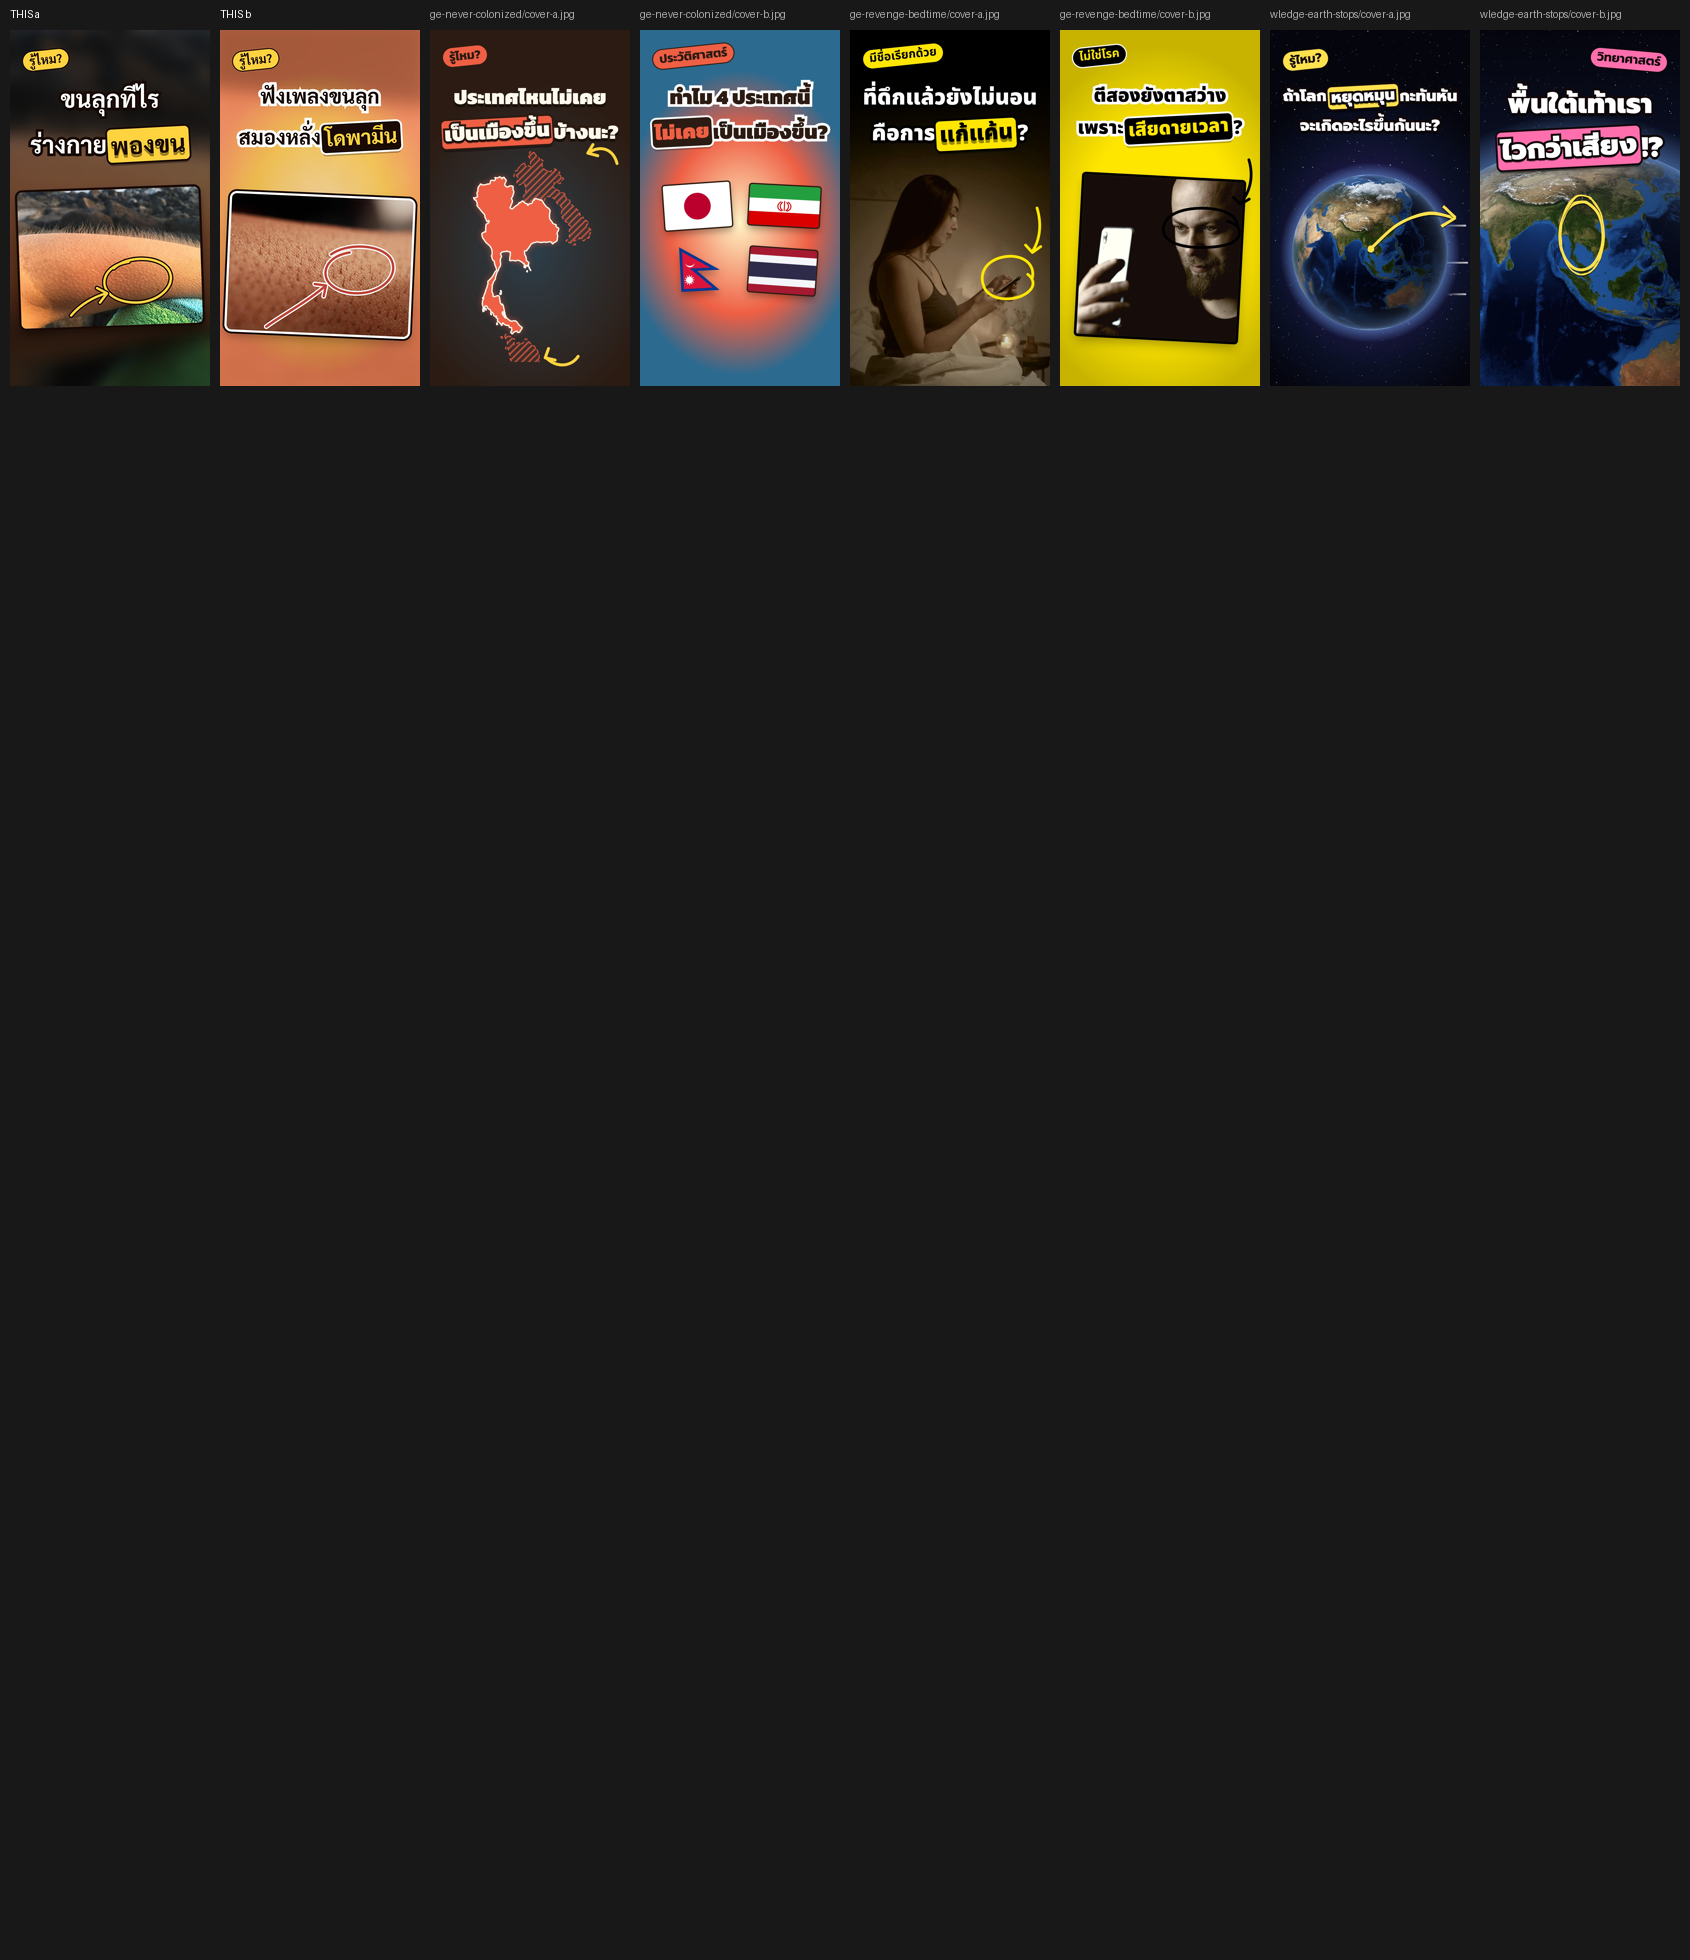
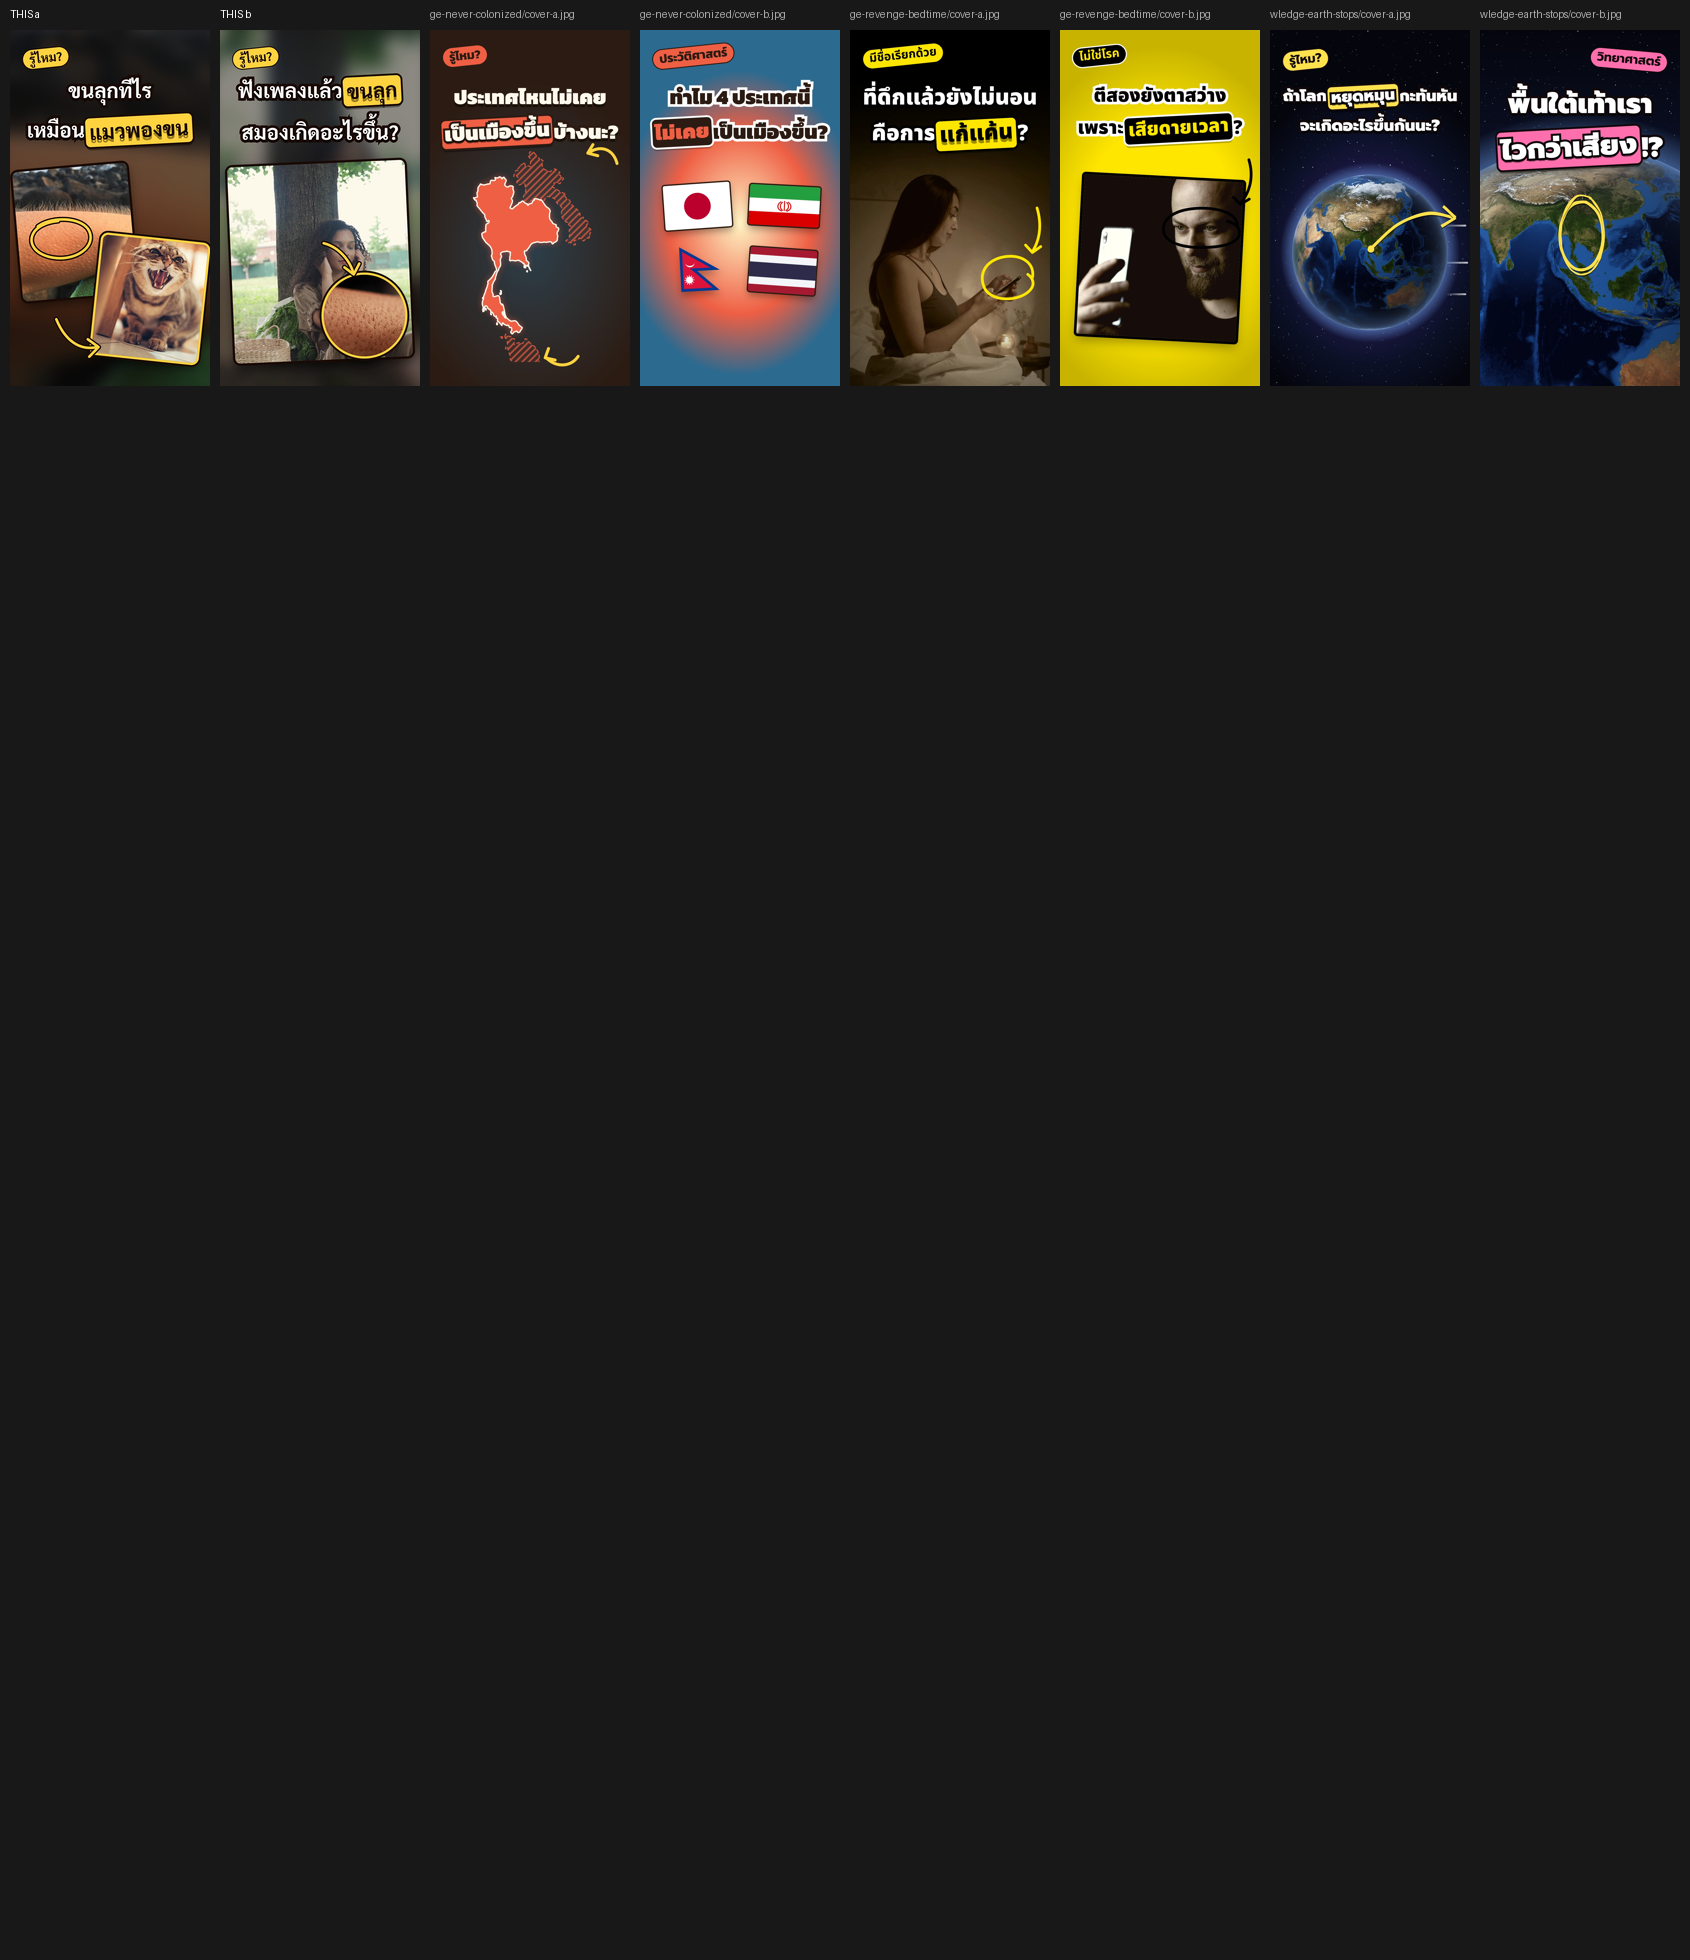
goosebumps: ปก A/B v2 (ผู้ใช้: ปกยังไม่ดีพอ) — คน=แมวพองขน / ฟังเพลงแล้วขนลุก สมองเกิดอะไรขึ้น?
Claude-Session: https://claude.ai/code/session_016zMkaQSnDrs8yg7tQyauFh

Changed region(s): [[0.0, 0.0, 0.2462, 0.2179]]

diff --git a/projects/2026-11-28-knowledge-goosebumps/video/cover.html b/projects/2026-11-28-knowledge-goosebumps/video/cover.html
@@ -32,43 +32,46 @@ html,body{width:1080px;height:1920px;overflow:hidden;background:#000}
 #root.vb .tl{color:var(--ink);-webkit-text-stroke-color:#fff;text-shadow:none}
 #root.vb .tl b{color:var(--bg2)}
 
-/* goosebumps (feedback never-colonized: ภาพจริงจัง + คำเด่นในกล่องเอียง + ป้ายมุม + ลูกศร/วงวาดมือ; ห้ามคลิปอาร์ต) */
-#bgimg{position:absolute;inset:-60px;background-size:cover;background-position:center;filter:blur(38px) brightness(.45) saturate(1.1);z-index:0}
-#root.vb #bgimg{filter:blur(40px) brightness(1.05) saturate(.9);opacity:.35}
-#art{left:40px;top:860px;width:1000px;height:780px}
-.card{position:absolute;left:10px;top:0;width:980px;height:735px;border-radius:26px;overflow:hidden;transform:rotate(-2deg);
-  box-shadow:0 0 0 12px var(--ink),0 30px 60px rgba(0,0,0,.55)}
+/* goosebumps v2 (ผู้ใช้ 2026-11-28 "ปกยังไม่ดีพอ"): ตัวใหญ่ขึ้น, ภาพเปรียบเทียบ แขนขนลุก = แมวพองขน (A) / คนฟังเพลง + ผิวขนลุก (B)
+   สไตล์ปกช่อง: ภาพจริงจัง + คำเด่นในกล่องเอียง + ป้ายมุม + ลูกศร/วงวาดมือ; ห้ามคลิปอาร์ต */
+#bgimg{position:absolute;inset:-60px;background-size:cover;background-position:center;filter:blur(40px) brightness(.4) saturate(1.1);z-index:0}
+#root.vb #bgimg{filter:blur(40px) brightness(.55) saturate(1)}
+#root.vb{background:var(--bg)}
+#root.vb .tl{color:var(--text);-webkit-text-stroke-color:var(--ink);text-shadow:0 16px 0 rgba(0,0,0,.4)}
+#art{left:0;top:700px;width:1080px;height:1220px}
+.card{position:absolute;border-radius:28px;overflow:hidden;box-shadow:0 0 0 12px var(--ink),0 30px 60px rgba(0,0,0,.6)}
 .card img{width:100%;height:100%;object-fit:cover;display:block}
-#root.vb .card{transform:rotate(2.5deg);top:40px;box-shadow:0 0 0 12px #fff,0 0 0 22px var(--ink),0 30px 60px rgba(0,0,0,.35)}
-#art svg.draw{position:absolute;left:-40px;top:-80px;width:1080px;height:900px;overflow:visible;z-index:3}
+.c-arm{left:40px;top:40px;width:620px;height:700px;transform:rotate(-5deg)}
+.c-cat{left:470px;top:430px;width:570px;height:640px;transform:rotate(6deg);box-shadow:0 0 0 12px var(--accent),0 0 0 22px var(--ink),0 30px 60px rgba(0,0,0,.6)}
+.c-mus{left:60px;top:20px;width:960px;height:1060px;transform:rotate(-2.5deg)}
+.c-skin{left:560px;top:620px;width:440px;height:440px;border-radius:50%;transform:rotate(4deg);box-shadow:0 0 0 12px var(--accent),0 0 0 22px var(--ink),0 30px 60px rgba(0,0,0,.6)}
+#art svg.draw{position:absolute;left:0;top:0;width:1080px;height:1220px;overflow:visible;z-index:3}
 .draw path{fill:none;stroke-linecap:round;stroke-linejoin:round}
-.draw .sh{stroke:var(--ink);stroke-width:26}
-.draw .fg{stroke:var(--accent);stroke-width:13}
-#root.vb .draw .fg{stroke:var(--bg2)}
-#root.vb .draw .sh{stroke:#fff}
-#title .tl b{display:inline-block;background:var(--accent);color:var(--ink);padding:0 18px 10px;margin:0 4px;border-radius:22px;
+.draw .sh{stroke:var(--ink);stroke-width:28}
+.draw .fg{stroke:var(--accent);stroke-width:14}
+#title .tl b{display:inline-block;background:var(--accent);color:var(--ink);padding:0 20px 12px;margin:0 4px;border-radius:24px;
   transform:rotate(-3deg);box-shadow:0 0 0 10px var(--ink),0 18px 0 rgba(0,0,0,.35);-webkit-text-stroke:0}
-#root.vb #title .tl b{background:var(--ink);color:var(--accent);box-shadow:0 0 0 10px #fff,0 18px 0 rgba(0,0,0,.25)}
-#badge{transform:rotate(-6deg);font-size:66px;padding:14px 34px 22px;left:70px;top:110px}
-#title{top:280px;gap:78px}
+#badge{transform:rotate(-6deg);font-size:66px;padding:14px 34px 22px;left:70px;top:100px}
+#title{top:250px;gap:70px}
+#root.vb #title .tl b{color:var(--ink);background:var(--accent)}
 .va,.vbo{display:none} #root:not(.vb) .va{display:block} #root.vb .vbo{display:block}
 </style></head><body>
 <div id="root">
   <div id="bgimg"></div>
   <div id="art" data-cover="art">
-    <div class="card va"><img src="assets/pixabay-885563.jpg" style="object-position:50% 30%"/></div>
-    <div class="card vbo"><img src="assets/pixabay-222664.jpg" style="object-position:55% 50%"/></div>
-    <svg class="draw va" viewBox="0 0 1080 900">
-      <g><path class="sh" d="M560,505 C640,430 820,440 860,520 C900,600 800,690 680,690 C560,690 480,620 520,540 C540,505 580,480 640,470"/>
-         <path class="fg" d="M560,505 C640,430 820,440 860,520 C900,600 800,690 680,690 C560,690 480,620 520,540 C540,505 580,480 640,470"/></g>
-      <g><path class="sh" d="M330,760 C380,700 450,660 520,640"/><path class="sh" d="M470,612 L524,640 L486,690"/>
-         <path class="fg" d="M330,760 C380,700 450,660 520,640"/><path class="fg" d="M470,612 L524,640 L486,690"/></g>
+    <div class="card c-arm va"><img src="assets/pixabay-885563.jpg" style="object-position:58% 50%"/></div>
+    <div class="card c-cat va"><img src="assets/cover-cat.jpg" style="object-position:40% 30%"/></div>
+    <svg class="draw va" viewBox="0 0 1080 1220">
+      <g><path class="sh" d="M150,360 C230,300 400,310 430,390 C460,470 360,540 250,530 C140,520 90,450 130,390 C150,360 200,335 260,330"/>
+         <path class="fg" d="M150,360 C230,300 400,310 430,390 C460,470 360,540 250,530 C140,520 90,450 130,390 C150,360 200,335 260,330"/></g>
+      <g><path class="sh" d="M250,860 C300,980 380,1030 470,1010"/><path class="sh" d="M420,968 L478,1010 L428,1062"/>
+         <path class="fg" d="M250,860 C300,980 380,1030 470,1010"/><path class="fg" d="M420,968 L478,1010 L428,1062"/></g>
     </svg>
-    <svg class="draw vbo" viewBox="0 0 1080 900">
-      <g><path class="sh" d="M600,430 C700,360 900,380 930,470 C960,560 860,640 740,640 C620,640 540,570 580,490 C600,455 640,430 700,420"/>
-         <path class="fg" d="M600,430 C700,360 900,380 930,470 C960,560 860,640 740,640 C620,640 540,570 580,490 C600,455 640,430 700,420"/></g>
-      <g><path class="sh" d="M250,820 C330,760 450,700 570,600"/><path class="sh" d="M512,590 L572,598 L560,656"/>
-         <path class="fg" d="M250,820 C330,760 450,700 570,600"/><path class="fg" d="M512,590 L572,598 L560,656"/></g>
+    <div class="card c-mus vbo"><img src="assets/cover-music.jpg" style="object-position:50% 28%"/></div>
+    <div class="card c-skin vbo"><img src="assets/pixabay-222664.jpg" style="object-position:60% 55%"/></div>
+    <svg class="draw vbo" viewBox="0 0 1080 1220">
+      <g><path class="sh" d="M560,450 C640,470 700,540 720,610"/><path class="sh" d="M672,580 L722,618 L752,560"/>
+         <path class="fg" d="M560,450 C640,470 700,540 720,610"/><path class="fg" d="M672,580 L722,618 L752,560"/></g>
     </svg>
   </div>
   <div id="title"></div>
@@ -81,7 +84,7 @@ const v = new URLSearchParams(location.search).get('v') || 'a';
 const root = document.getElementById('root');
 for (const [k, val] of Object.entries(C.vars || {})) root.style.setProperty(k, val);
 if (v === 'b') root.classList.add('vb');
-document.getElementById('bgimg').style.backgroundImage = `url(assets/${v==='b'?'pixabay-222664':'pixabay-885563'}.jpg)`;
+document.getElementById('bgimg').style.backgroundImage = `url(assets/${v==='b'?'cover-music':'pixabay-885563'}.jpg)`;
 const c = C;
 const esc = s => s.replace(/[&<>]/g, m => ({ '&': '&amp;', '<': '&lt;', '>': '&gt;' }[m]));
 document.getElementById('title').innerHTML =
@@ -90,8 +93,8 @@ const bd = document.getElementById('badge');
 if (c.badge) bd.textContent = c.badge; else bd.remove();
 // draw the hero picture into #art here (e.g. window.HandRig, see compositions/components/hand-rig/README.md)
 { const tls = [...document.querySelectorAll('#title .tl')];
-  const run = () => { let fs = 150; const ok = () => { tls.forEach(el => el.style.fontSize = fs + 'px');
-      return tls.every(el => el.scrollWidth <= 880); }; while (!ok() && fs > 60) fs -= 4; };
+  const run = () => { let fs = 170; const ok = () => { tls.forEach(el => el.style.fontSize = fs + 'px');
+      return tls.every(el => el.scrollWidth <= 900); }; while (!ok() && fs > 60) fs -= 4; };
   run(); document.fonts.ready.then(run); }
 </script>
 </body></html>

diff --git a/projects/2026-11-28-knowledge-goosebumps/thumbnail.md b/projects/2026-11-28-knowledge-goosebumps/thumbnail.md
@@ -7,3 +7,11 @@
 | B | ผิวขนลุก close-up อีกภาพ (ครอปต่างมุม) + หูฟังเล็กมุมล่าง (ภาพจริง ถ้า footage มี) | ฟังเพลงขนลุก / สมองหลั่ง*โดพามีน* | รู้ไหม? | ลูกศรวาดมือจากหูฟังไปผิว | ข้อแถมน่าส่งต่อ (✅ research 4.1: "งานวิจัยเจอว่า" — ปกไม่อ้างว่าโดพามีนทำให้ขนลุก แค่บอกว่าหลั่ง) |
 
 ตัวหลัก: A (ตรงคำค้น "ขนลุก" + ภาพแปลก); วัด CTR หลัง 48 ชม. (`tools/cover_check.py log`)
+
+## v2 (ผู้ใช้ 2026-11-28: "ปกยังไม่ดีพอ ปรับปรุงหรือหาคำที่มันดีกว่านี้")
+ปัญหา v1: ภาพเดียวไม่มีอะไรแปลก (แค่ผิว), ตัวหนังสือเล็ก, คำ "ร่างกายพองขน" ไม่เห็นภาพ / B "สมองหลั่งโดพามีน" บอกคำตอบไปแล้ว ไม่มีช่องว่างให้อยากกด
+| แบบ | ข้อความ | ภาพ | ทำไมดีขึ้น |
+|---|---|---|---|
+| **A (หลัก)** | ขนลุกทีไร / เหมือน*แมวพองขน* | การ์ดแขนขนลุกจริง (วงรอบตุ่มขน) + การ์ดแมวขู่ ลูกศรวาดมือจากแขนไปแมว | ภาพเปรียบเทียบคน = แมว แปลกพอจะหยุดนิ้ว; ✅ research 1.1/2.1 (รีเฟล็กซ์เดียวกัน) |
+| B | ฟังเพลงแล้ว*ขนลุก* / สมองเกิดอะไรขึ้น? | คนใส่หูฟังหลับตาอินเพลง + วงกลมซูมผิวขนลุก ลูกศรชี้ | เป็นคำถามเปิด (curiosity gap) ไม่เฉลยในปก; ไม่อ้างตัวเลข/เหตุ-ผล |
+ตัวใหญ่ขึ้น (fit 170→900 px), กล่องคำเด่นเอียงสี accent ทั้ง 2 แบบ; cover_check --final OK

diff --git a/projects/2026-11-28-knowledge-goosebumps/DELIVERY.md b/projects/2026-11-28-knowledge-goosebumps/DELIVERY.md
@@ -51,7 +51,7 @@ ElevenLabs (บัญชีใหม่) eleven_v3 1 เทค ~458 ตัวอ
 
 ## ชื่อ / ปก / อัปโหลด (upload.md)
 - ชื่อแนะนำ: **"ทำไมเราขนลุก? 🥶"** (ทางเลือก: "ทำไมเราขนลุก แม้แต่ตอนฟังเพลง? 🥶")
-- ปก A (หลัก): "ขนลุกทีไร / ร่างกาย[พองขน]" ภาพแขนขนลุกจริง + วงวาดมือ | ปก B: "ฟังเพลงขนลุก / สมองหลั่ง[โดพามีน]" macro ผิวขนลุก พื้นสว่าง
+- ปก v2 (ผู้ใช้: "ปกยังไม่ดีพอ"): A (หลัก) "ขนลุกทีไร / เหมือน[แมวพองขน]" การ์ดแขนขนลุก + การ์ดแมว ลูกศรวาดมือ | B "ฟังเพลงแล้ว[ขนลุก] / สมองเกิดอะไรขึ้น?" คนฟังเพลง + วงซูมผิวขนลุก (thumbnail.md)
 - **แฮชแท็ก: #ร่างกาย #ขนลุก #ความรู้ #วิทยาศาสตร์ #shorts เท่านั้น** — ห้าม #astrology #quiz #chatgpt (แท็กแนะนำอัตโนมัติ)
 - หลังลง ≥48 ชม.: `python3 tools/cover_check.py log projects/2026-11-28-knowledge-goosebumps --variant a --ctr <%> --impressions <n>`
 - ลงวันละ 1-2 คลิป เว้นระยะ (คำแนะนำ ไม่มีหลักฐานว่าลงเยอะแล้วโดนลงโทษ)
